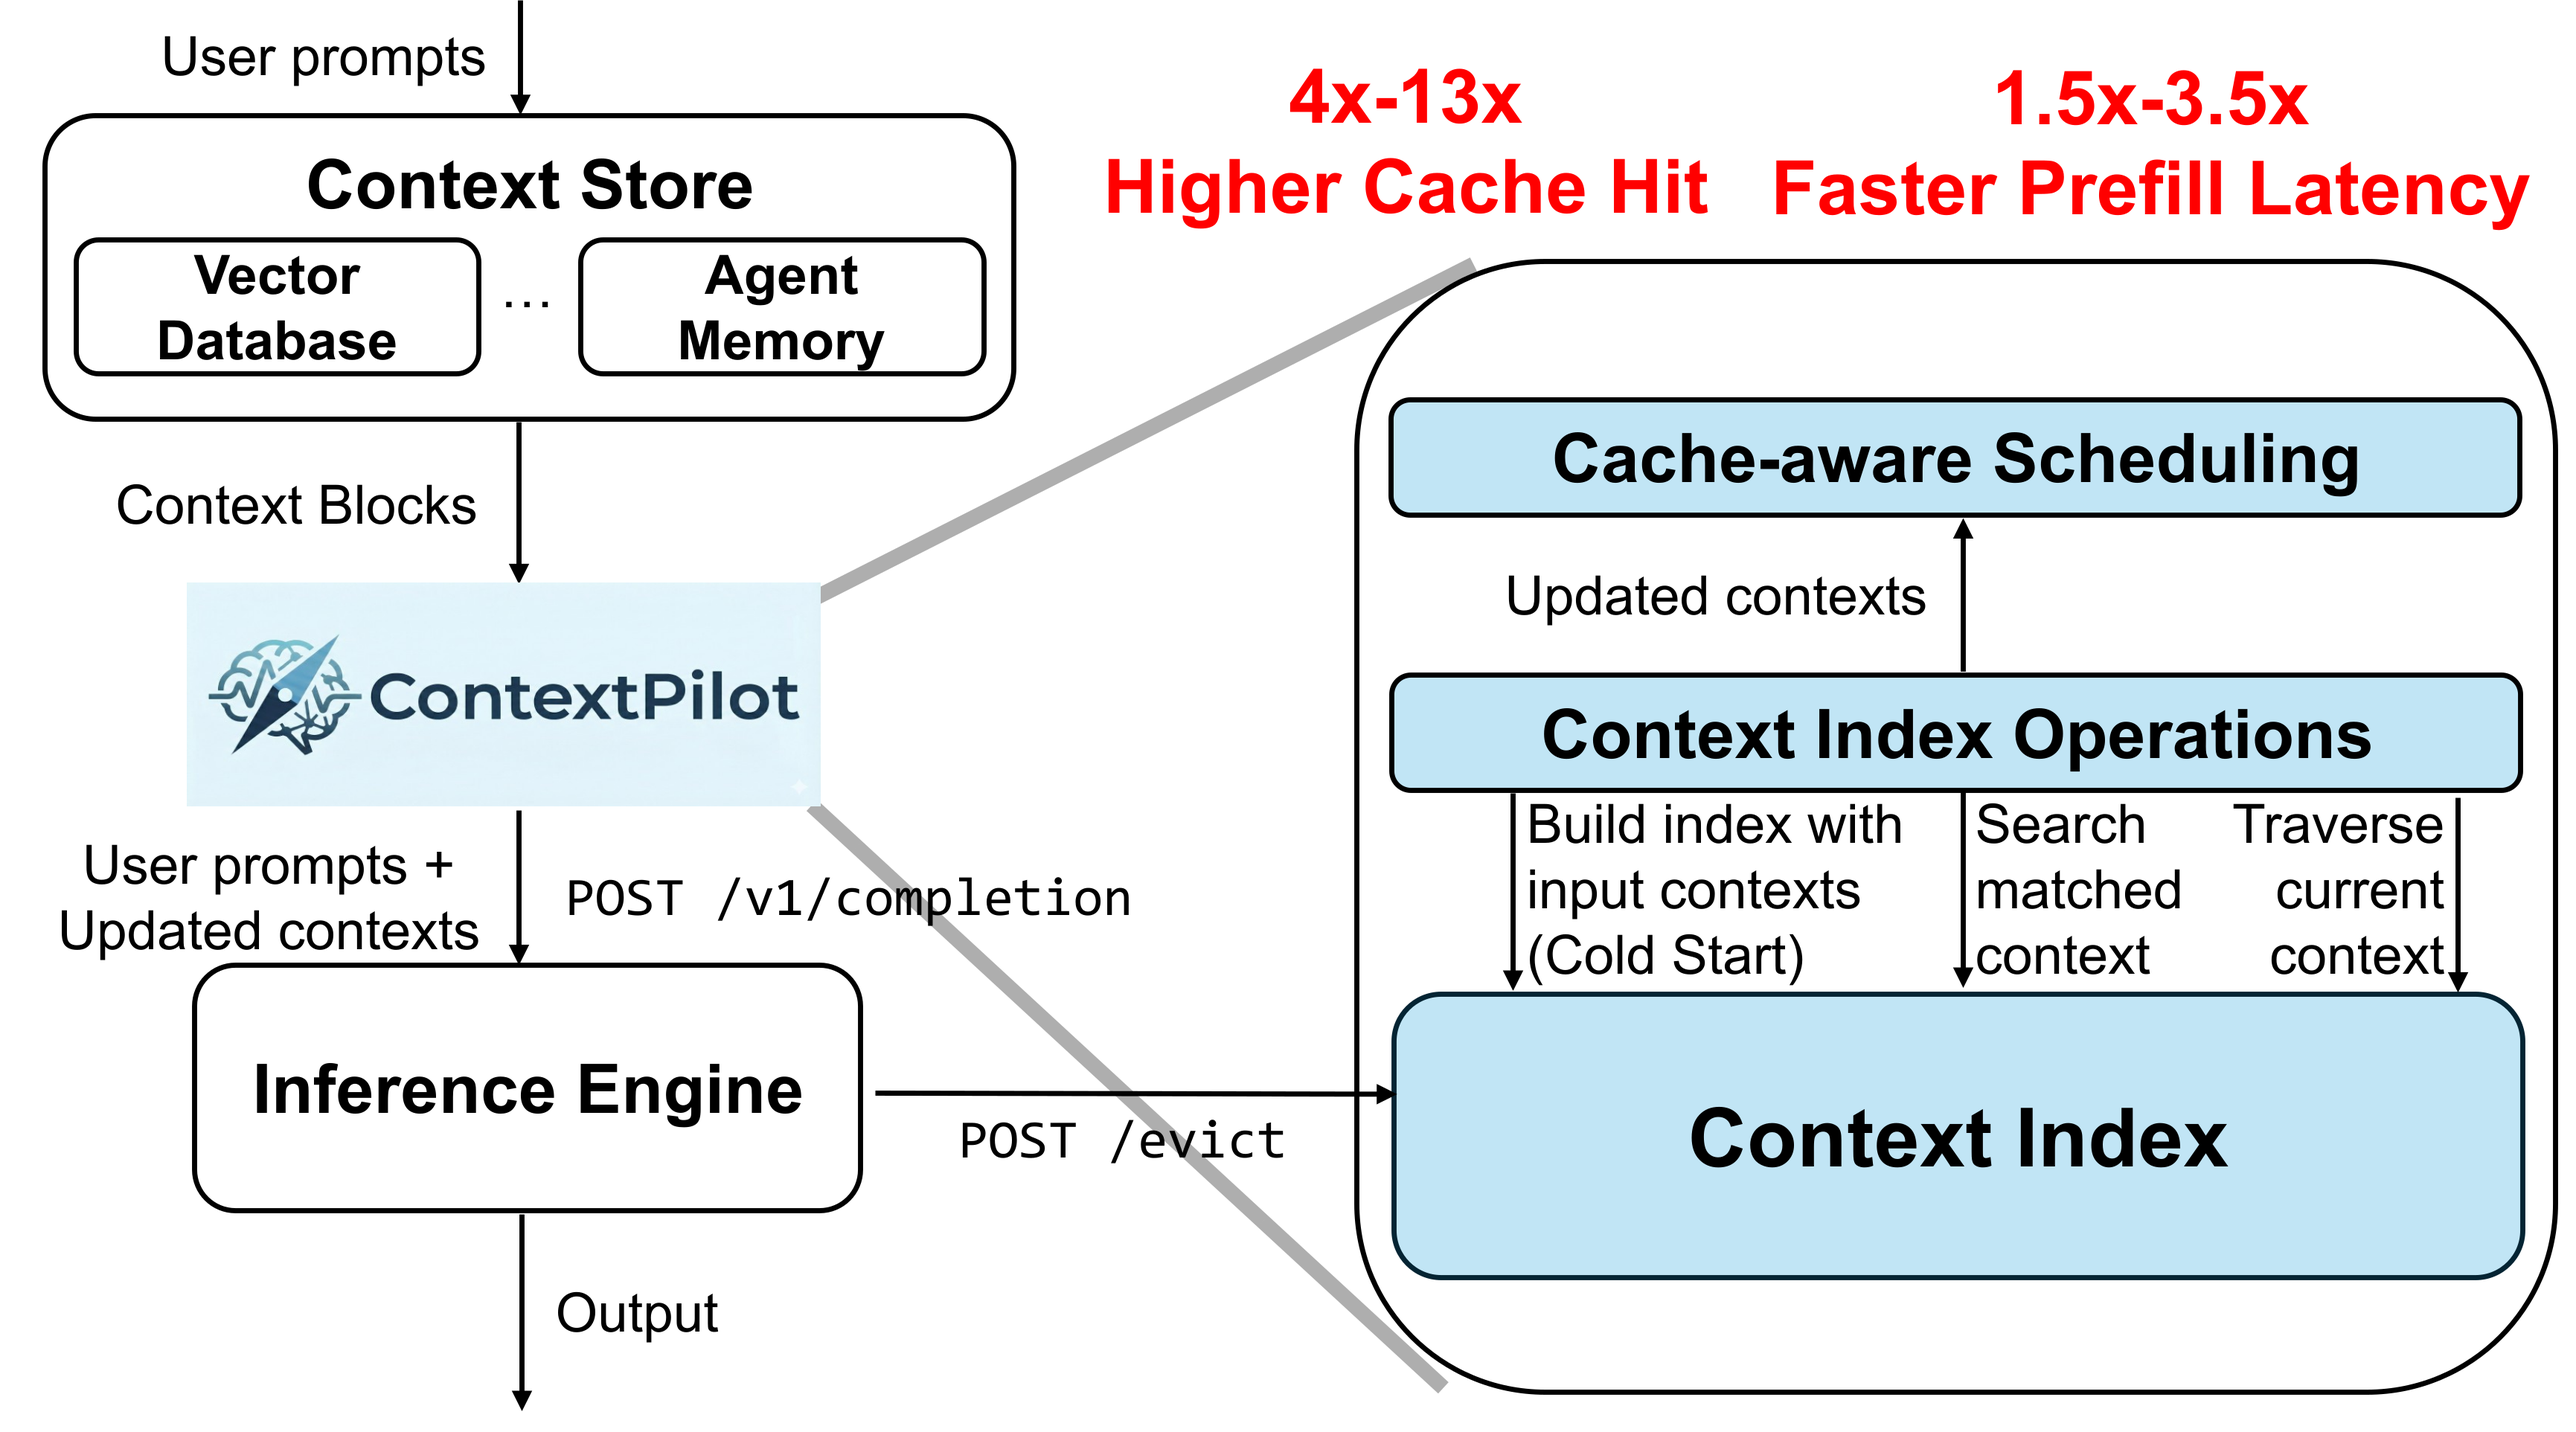
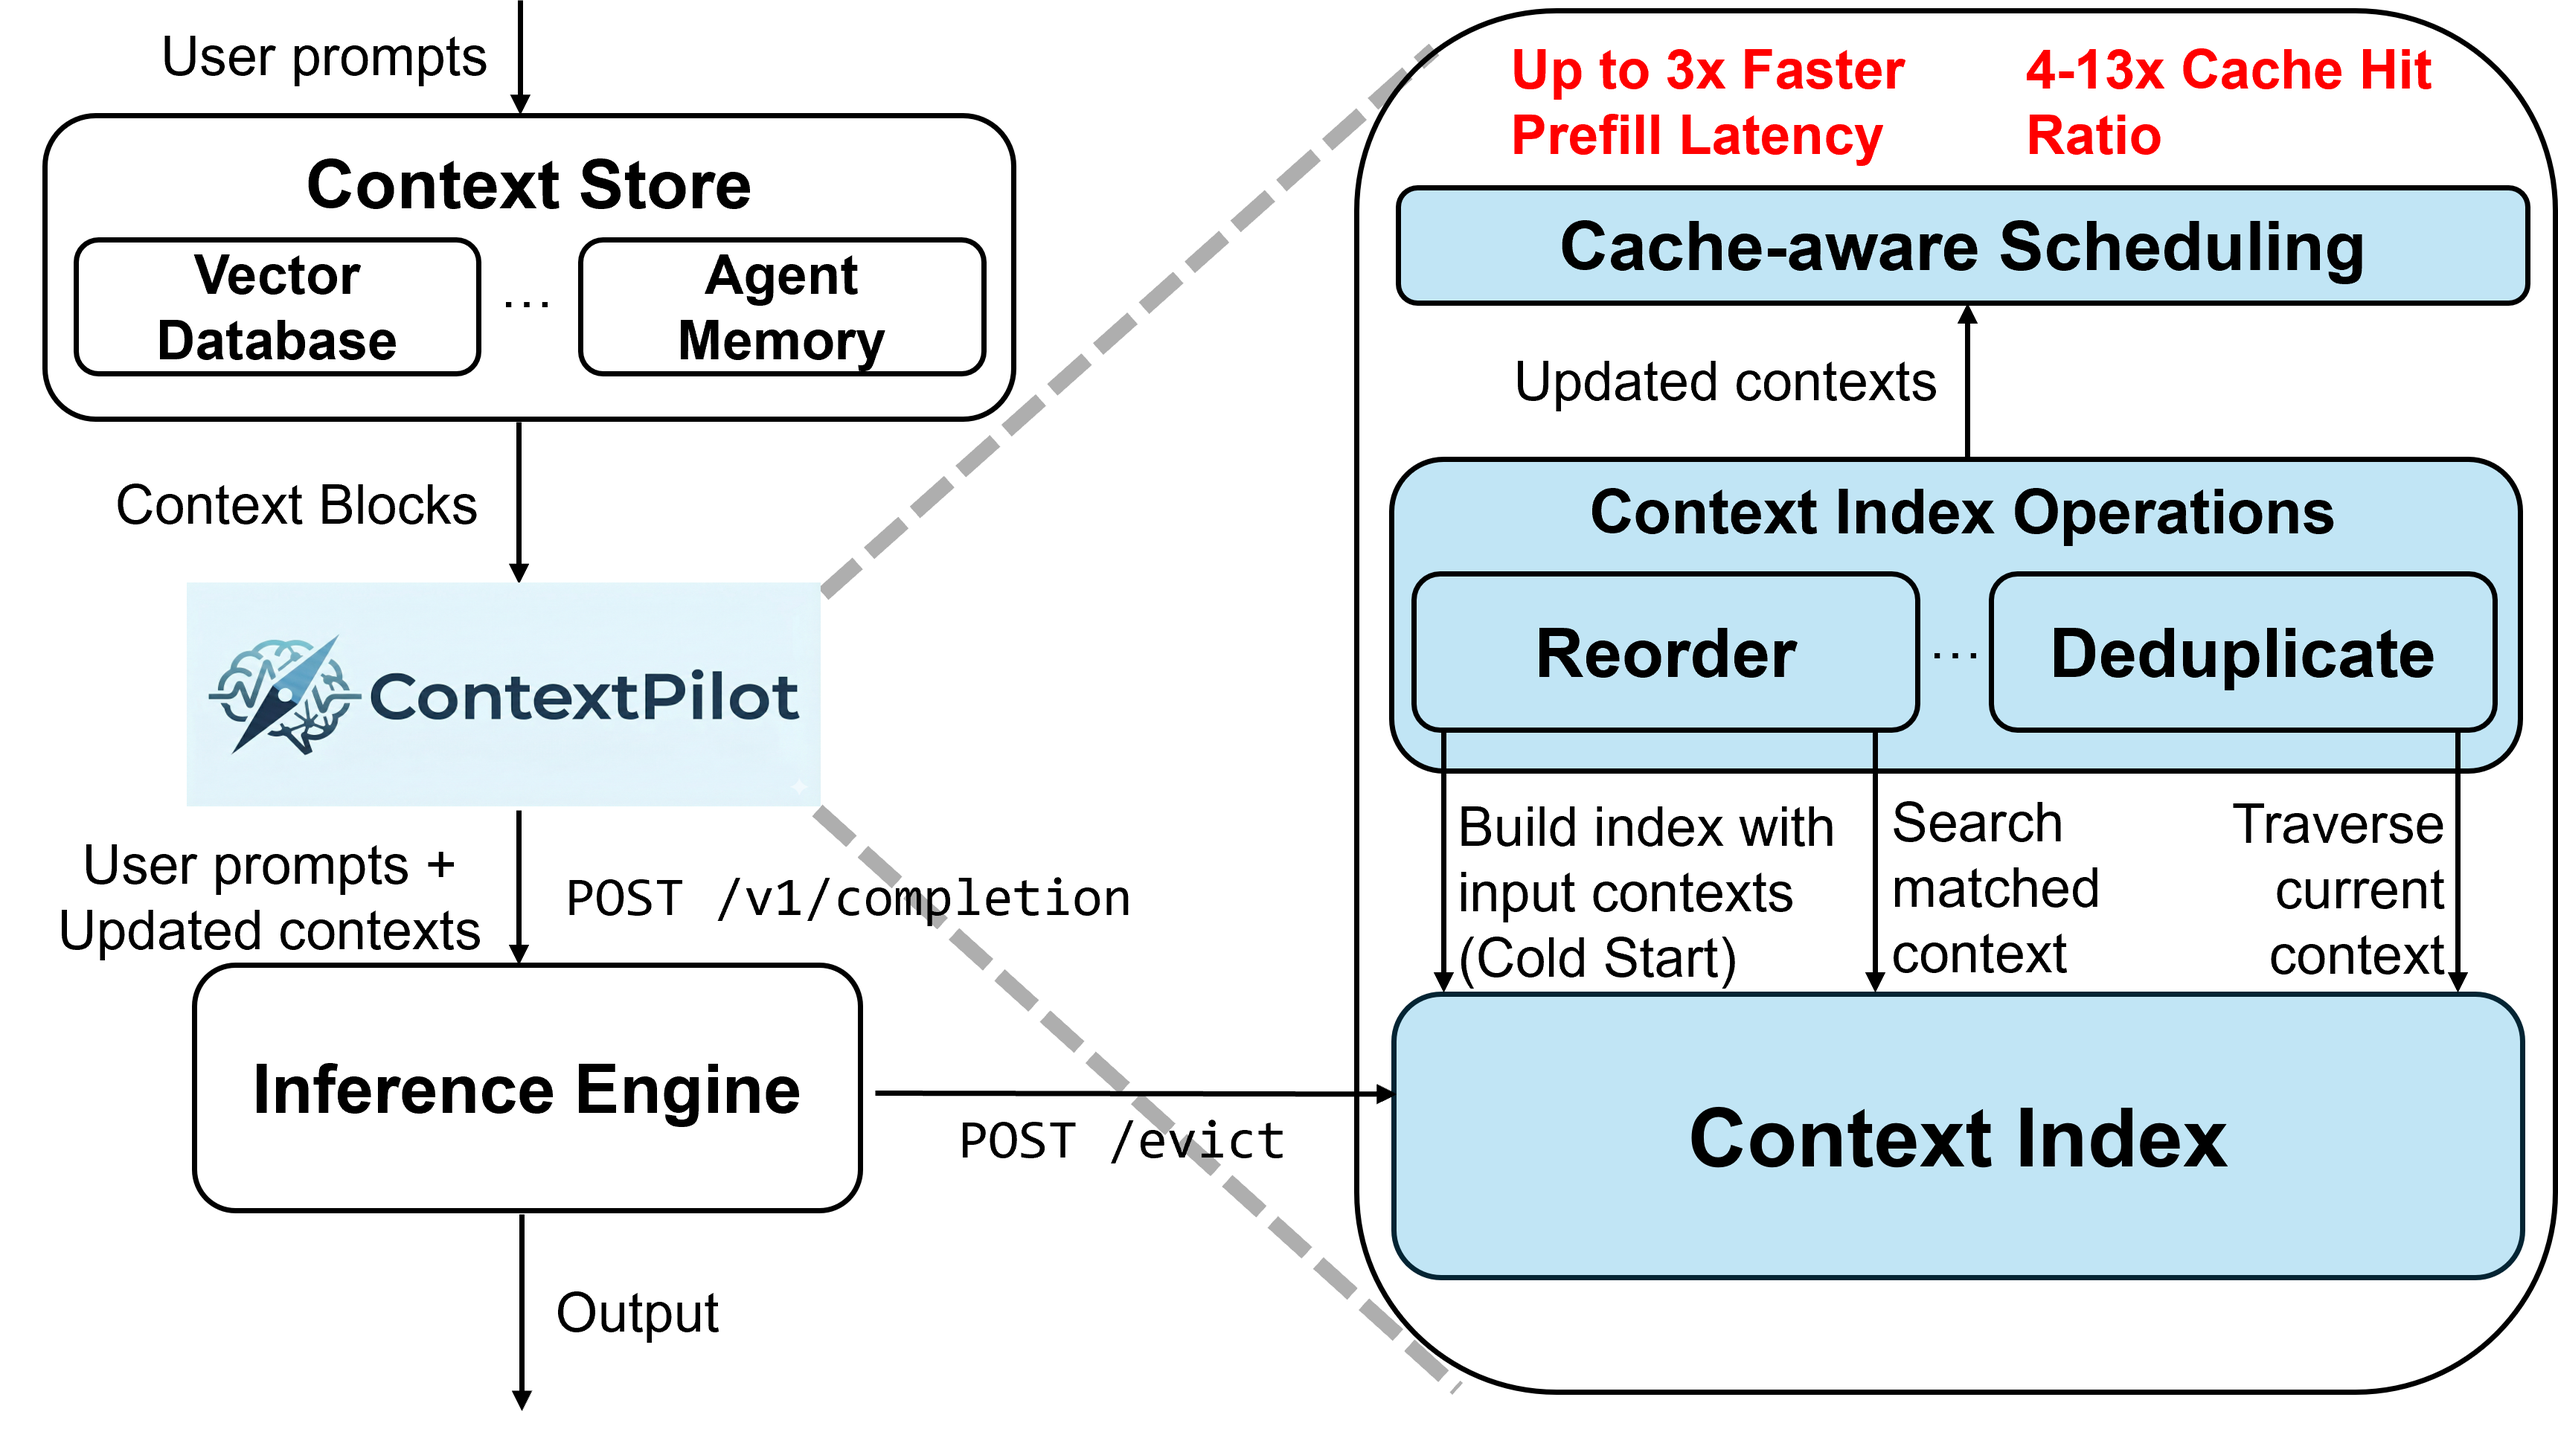
Update Readme

diff --git a/README.md b/README.md
@@ -7,6 +7,8 @@
   [![PyPI](https://img.shields.io/pypi/v/contextpilot)](https://pypi.org/project/contextpilot/)
   [![License](https://img.shields.io/badge/license-Apache%202.0-green)](LICENSE)
 
+  <p>A lightweight middleware that accelerates long-context inference by optimizing context blocks before they reach the inference engine, turning prefix cache misses into hits. Drop-in compatible with vLLM, SGLang, and any RAG/agent pipeline. <strong>4-13x higher cache hit ratio | Up to 3x lower prefill latency | ~36% input token cost savings on hosted APIs.</strong></p>
+
 </div>
 
 --------------------------------------------------------------------------------
@@ -21,27 +23,43 @@
 
 ## About
 
-Long-context inference workloads — from RAG-based QA to multi-turn conversations with long-term memory — build prompts by prepending retrieved documents, memory entries, or tool outputs as context blocks. Across requests these blocks often **overlap** but arrive in **different orders**, and may also contain **duplicated** content across turns. The inference engine sees different token sequences each time, causing prefix cache misses and redundant KV-state recomputation.
+Long-context inference workloads (RAG, multi-turn chat with memory, tool-augmented agents) build prompts by prepending gathered context blocks (documents, memory entries, tool outputs, etc.) — often tens to hundreds of thousands of tokens. Across requests these blocks often **overlap** but arrive in **different orders**, and may be **duplicated** across turns. The inference engine sees a different token sequence each time, causing prefix cache misses and redundant KV-state recomputation over long contexts.
 
-ContextPilot is a lightweight context optimization layer that maximizes prefix sharing and reduces redundancy across requests:
+ContextPilot is a long-context optimization layer that sits between context assembly and inference, maximizing prefix sharing and eliminating redundancy:
 
-1. **High Throughput & Cache Hit Ratio**: Boosting prefill throughput and prefix cache hit ratio with intelligent context reuse.
-2. **Strong Compatibility**: Strong compatibility with existing popular RAG libraries (PageIndex), Agentic memory layer (Mem0), KV cache optimization engine (LMCache), and Inference engines (vLLM and SGLang).
-3. **Negligible Accuracy Loss**: Achieving significant performance improvements with minimal to no accuracy degradation across various benchmarks.
-4. **Widely Tested**: Tested with a wide range of RAG and Agentic AI applications.
+1. **High Throughput & Cache Hit Ratio** — Intelligent context reuse that boosts prefill throughput and prefix cache hit ratio.
+2. **Drop-in Compatibility** — Works with RAG libraries ([PageIndex](https://github.com/VectifyAI/PageIndex)), agent memory ([Mem0](https://github.com/mem0ai/mem0)), KV cache engines ([LMCache](https://github.com/LMCache/LMCache)), and inference backends (vLLM, SGLang).
+3. **Negligible Accuracy Loss** — Significant speedups with minimal to no accuracy degradation across benchmarks.
+4. **Widely Tested** — Validated across diverse RAG and agentic AI applications.
 
 <div align="center">
 <img src="assets/system_description.png" alt="ContextPilot Architecture" width="800"/>
 </div>
 
-> For more details on the architecture, design principles, and implementation, please refer to our [paper](https://arxiv.org/abs/2511.03475) and the [documentation](docs/README.md).
+Context blocks from upstream stores (vector DBs, agent memory, etc.) pass through ContextPilot, which maintains a **Context Index** of what the engine has cached. On each request, **Context Index Operations** — **Reorder** (align shared blocks into a common prefix) and **Deduplicate** (replace repeated blocks with reference hints) — optimize the context, and **Cache-aware Scheduling** determines the execution order to maximize prefix sharing. The optimized prompt is forwarded via the standard OpenAI-compatible API; an eviction callback (`POST /evict`) keeps the index in sync when the engine reclaims KV-cache memory.
+
+> For details on architecture, design, and implementation, see our [paper](https://arxiv.org/abs/2511.03475) and the [documentation](docs/README.md).
+
+## Core Concepts
+
+ContextPilot currently provides two core optimizations — **reorder** and **deduplicate** — targeting different sources of redundancy in long-context workloads.
+
+### Reorder
+
+`cp.reorder()` places **shared blocks at the beginning** of the prompt so consecutive requests share the longest possible common prefix, enabling KV-cache reuse. To preserve answer quality, ContextPilot injects an **importance ranking** so the model still prioritizes blocks in their original relevance order.
+
+### Deduplicate
+
+In multi-turn conversations, successive turns frequently gather **many of the same context blocks**, wasting tokens and compute.
+
+`cp.deduplicate()` compares the current turn's context blocks against prior turns (tracked by `conversation_id`). Duplicate blocks are replaced with lightweight **reference hints** (e.g., *"See Doc 3 from previous context"*); only genuinely new blocks are sent in full — typically reducing redundant tokens by **30-60%**.
 
 ## Target Workloads
 
-1. **Trending Topic QA** — Search and generation for breaking news and hot topics beyond model knowledge
-2. **Closed-Domain Long-Context QA** — QA over specialized corpora (novels, financial reports, legal documents) with retrieval or in-context search
-3. **Large-Batch Long-Context Execution** — High-throughput inference where many requests share overlapping contexts; ContextPilot maximizes prefix reuse regardless of the search method
-4. **Multi-Turn Conversations with Long-Term Memory** — Persistent context reuse across turns (e.g. [Mem0](https://github.com/mem0ai/mem0))
+1. **Trending Topic QA** — Search and generation for breaking news beyond model knowledge.
+2. **Closed-Domain Long-Context QA** — QA over specialized corpora (novels, financial reports, legal docs) with search or in-context lookup.
+3. **Large-Batch Long-Context Execution** — High-throughput inference where many requests share overlapping contexts.
+4. **Multi-Turn Conversations with Long-Term Memory** — Persistent context reuse across turns (e.g., [Mem0](https://github.com/mem0ai/mem0)).
 
 ## Benchmark and Performance
 
@@ -51,7 +69,7 @@ ContextPilot is a lightweight context optimization layer that maximizes prefix s
 <img src="assets/ds_r1_result_horizontal.png" alt="Benchmark Results" width="800"/>
 </div>
 
-ContextPilot (Offline) on DeepSeek-R1 maintains accuracy compared to SGLang, achieving 64.68% vs 64.15% F1 on MultihopRAG and 41.08% vs 40.20% F1 on NarrativeQA.
+ContextPilot (Offline) on DeepSeek-R1 matches or slightly improves accuracy compared to SGLang, achieving 64.68% vs 64.15% F1 on MultihopRAG and 41.08% vs 40.20% F1 on NarrativeQA.
 
 ### Accuracy on MT-RAG Benchmark (Online Scheduling)
 
@@ -66,11 +84,11 @@ ContextPilot (Offline) on DeepSeek-R1 maintains accuracy compared to SGLang, ach
 
 </div>
 
-ContextPilot delivers **4-13x** improvements in cache hit rates and **1.5-3.5x** reductions in prefill latency for large-batch RAG workloads, while maintaining or improving accuracy.
+Compared to vanilla RadixCache (SGLang default), ContextPilot delivers **4-13x** higher cache hit rates and **up to 3x** lower prefill latency on large-batch long-context RAG workloads, while maintaining accuracy (Llama3.1-8B: 68.12 vs 68.46, within noise margin).
 
-**Furthermore**, hosted API providers (e.g. OpenAI) charge less for cached input tokens than uncached ones. By increasing cache hit ratio, ContextPilot has been tested to reduce input token costs by around **36%** on GPT-5.2.
+Hosted API providers charge less for cached input tokens. By increasing the cache hit ratio, ContextPilot reduces input token costs by **~36%** on GPT-5.2 (measured on MT-RAG).
 
-See [Benchmarks](docs/reference/benchmarks.md) in the documentation for GPU vs CPU performance analysis and detailed benchmark methodology.
+See [Benchmarks](docs/reference/benchmarks.md) for GPU vs CPU performance analysis and detailed methodology.
 
 ## Getting Started
 
@@ -100,13 +118,13 @@ Add **one call** (`cp.reorder()`) before inference to rearrange context blocks s
 | **Online** | Multi-turn (e.g., chatbot + [Mem0](https://github.com/mem0ai/mem0)) | Tracks previously cached blocks; moves overlapping ones to the prefix each turn |
 | **Offline** | Batch / single-shot | Globally reorders and schedules all requests for maximum prefix sharing |
 
-Both modes work with any OpenAI-compatible endpoint (vLLM, SGLang, etc.) — your existing inference deployment stays unchanged. They support both direct API calls (as shown below) and HTTP server deployment (see the [online usage guide](docs/guides/online_usage.md)).
+Both modes work with any OpenAI-compatible endpoint (vLLM, SGLang, etc.) — no changes to your inference deployment. They support both direct API calls (shown below) and HTTP server deployment (see the [online usage guide](docs/guides/online_usage.md)).
 
 ---
 
 #### Online Mode
 
-Multi-turn chatbot with Mem0 or RAG where each turn's context blocks partially overlap with previous turns. `cp.reorder()` moves shared blocks to the prefix so the engine reuses cached KV states instead of recomputing them.
+Multi-turn chatbot with Mem0 or RAG where each turn's context blocks partially overlap. `cp.reorder()` moves shared blocks to the prefix so the engine reuses cached KV states.
 
 ```python
 from openai import OpenAI
@@ -150,13 +168,13 @@ for turn_idx, (query, blocks) in enumerate(zip(queries, turn_contexts)):
     print(f"A: {response.choices[0].message.content}\n")
 ```
 
-> **Note:** When the engine evicts KV-cache entries under memory pressure, ContextPilot's index can go stale, causing it to reorder blocks for cache hits that no longer exist. To prevent this, install the eviction patch for [SGLang](docs/guides/online_usage.md#sglang-integration) or [vLLM](docs/guides/online_usage.md#vllm-integration) so the index stays in sync. See the [online usage guide](docs/guides/online_usage.md).
+> **Note:** When the engine evicts KV-cache entries under memory pressure, ContextPilot's index can go stale. Install the eviction patch for [SGLang](docs/guides/online_usage.md#sglang-integration) or [vLLM](docs/guides/online_usage.md#vllm-integration) to keep the index in sync. See the [online usage guide](docs/guides/online_usage.md).
 
 ---
 
 #### Offline Mode
 
-Batch of requests whose context blocks overlap across queries. `cp.reorder()` globally reorders blocks and schedules execution order so queries with similar contexts run consecutively, maximizing cache reuse. See the [offline usage guide](docs/guides/offline_usage.md) for detailed documentation. You can also deploy Offline mode as an HTTP server without eviction sync — see [Stateless Mode](docs/guides/online_usage.md#stateless-mode).
+Batch of requests with overlapping context blocks. `cp.reorder()` globally reorders blocks and schedules execution order so queries with similar contexts run consecutively, maximizing cache reuse. See the [offline usage guide](docs/guides/offline_usage.md) for details. Offline mode can also be deployed as an HTTP server without eviction sync — see [Stateless Mode](docs/guides/online_usage.md#stateless-mode).
 
 ```python
 import asyncio
@@ -206,11 +224,11 @@ ContextPilot also supports [automatic context deduplication](docs/guides/multi_t
 
 ## Documentation
 
-Check out the ContextPilot [documentation](docs/README.md) for comprehensive guides.
+See the ContextPilot [documentation](docs/README.md) for comprehensive guides.
 
 ## Examples
 
-Go hands-on with our [examples](examples/), including [Mem0 integration](examples/mem0_locomo_example.py), [PageIndex RAG](examples/pageindex_e2e_example.py), and [offline batch scheduling](examples/offline/).
+See our [examples](examples/): [Mem0 integration](examples/mem0_locomo_example.py), [PageIndex RAG](examples/pageindex_e2e_example.py), and [offline batch scheduling](examples/offline/).
 
 ## Contributing
 
